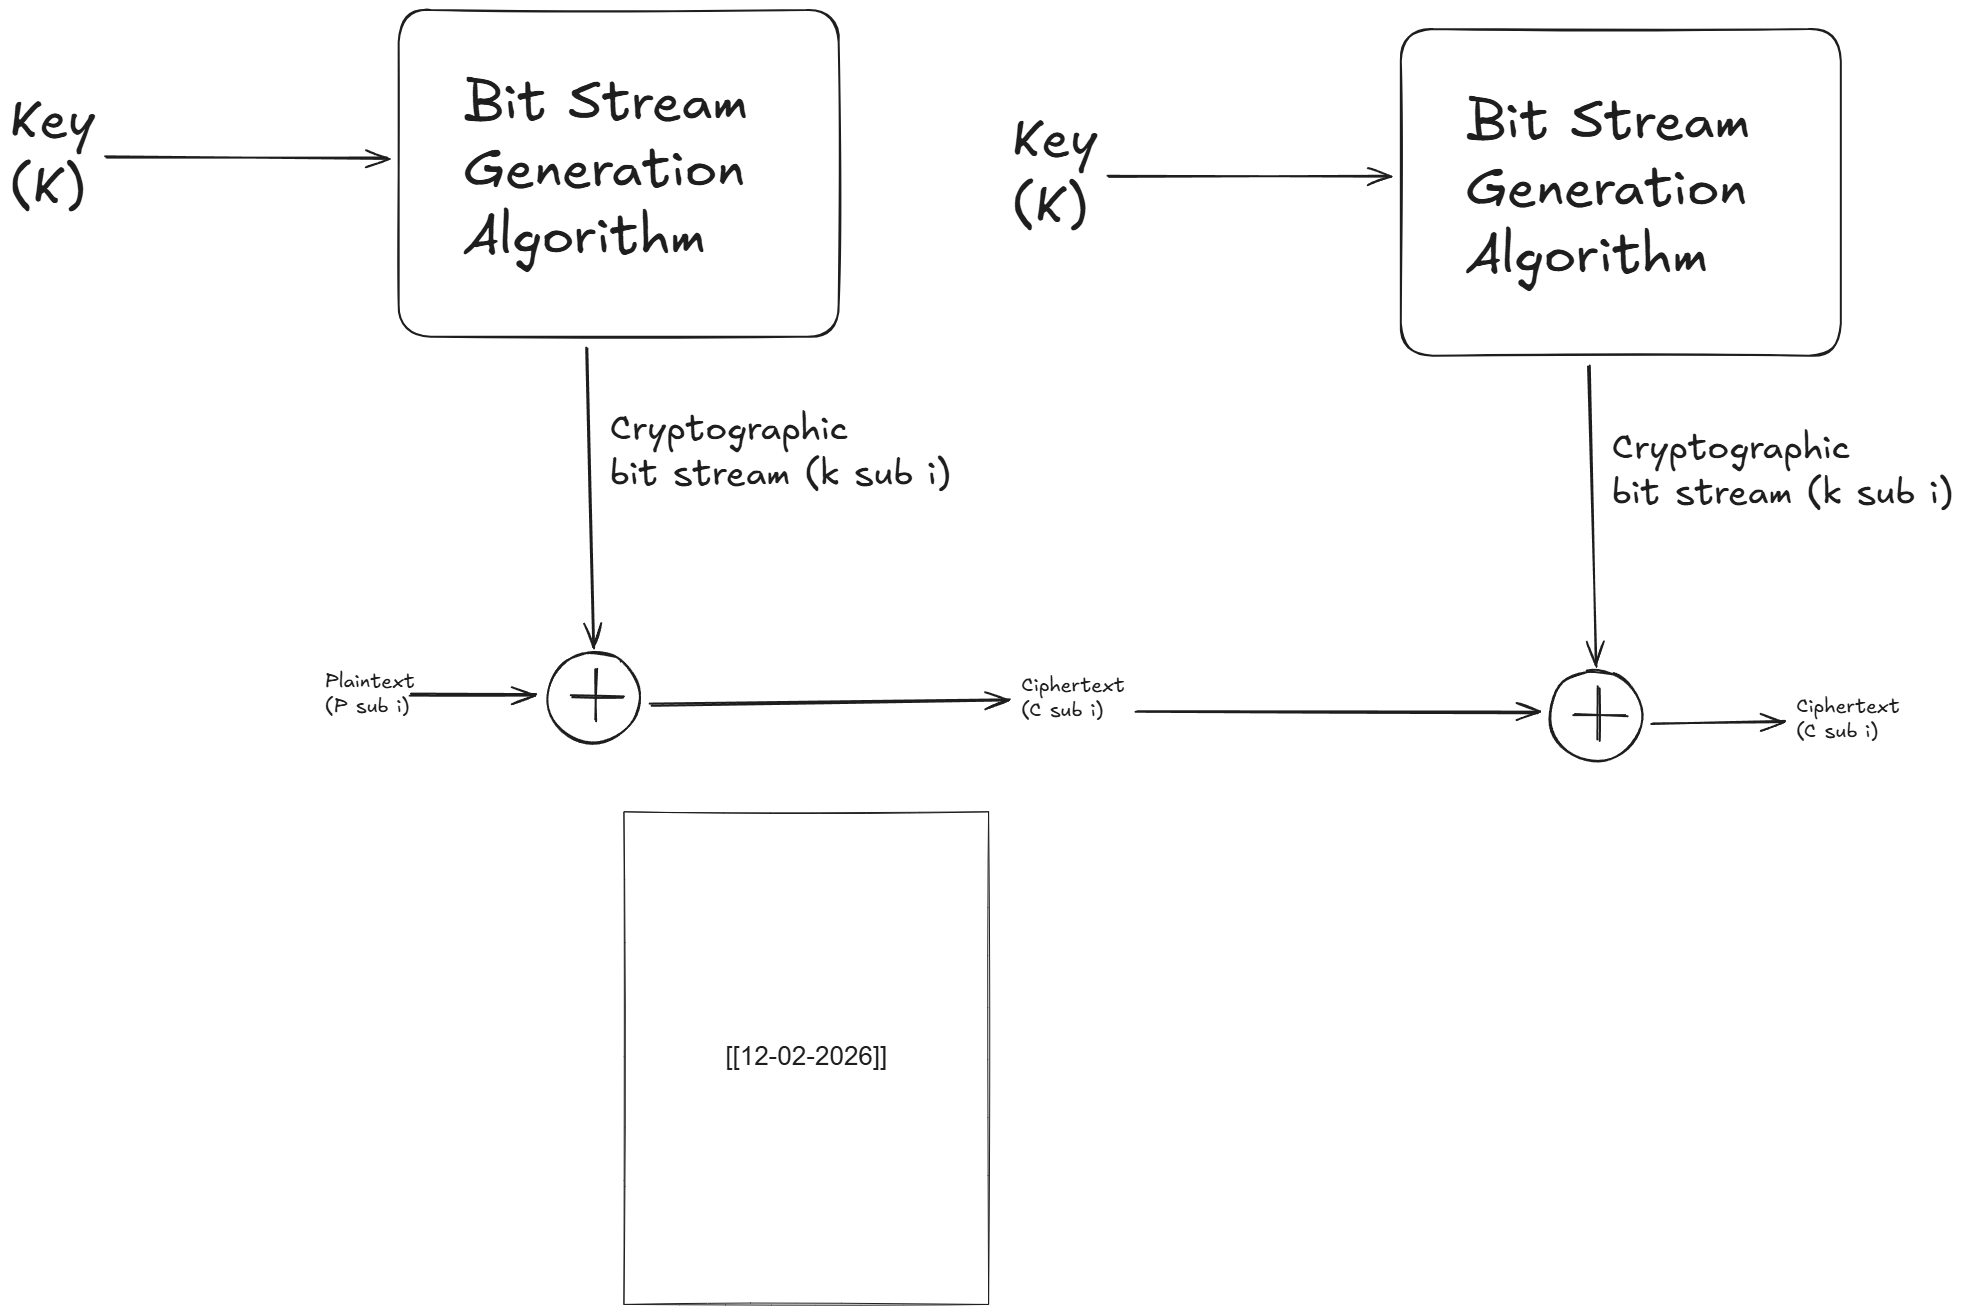
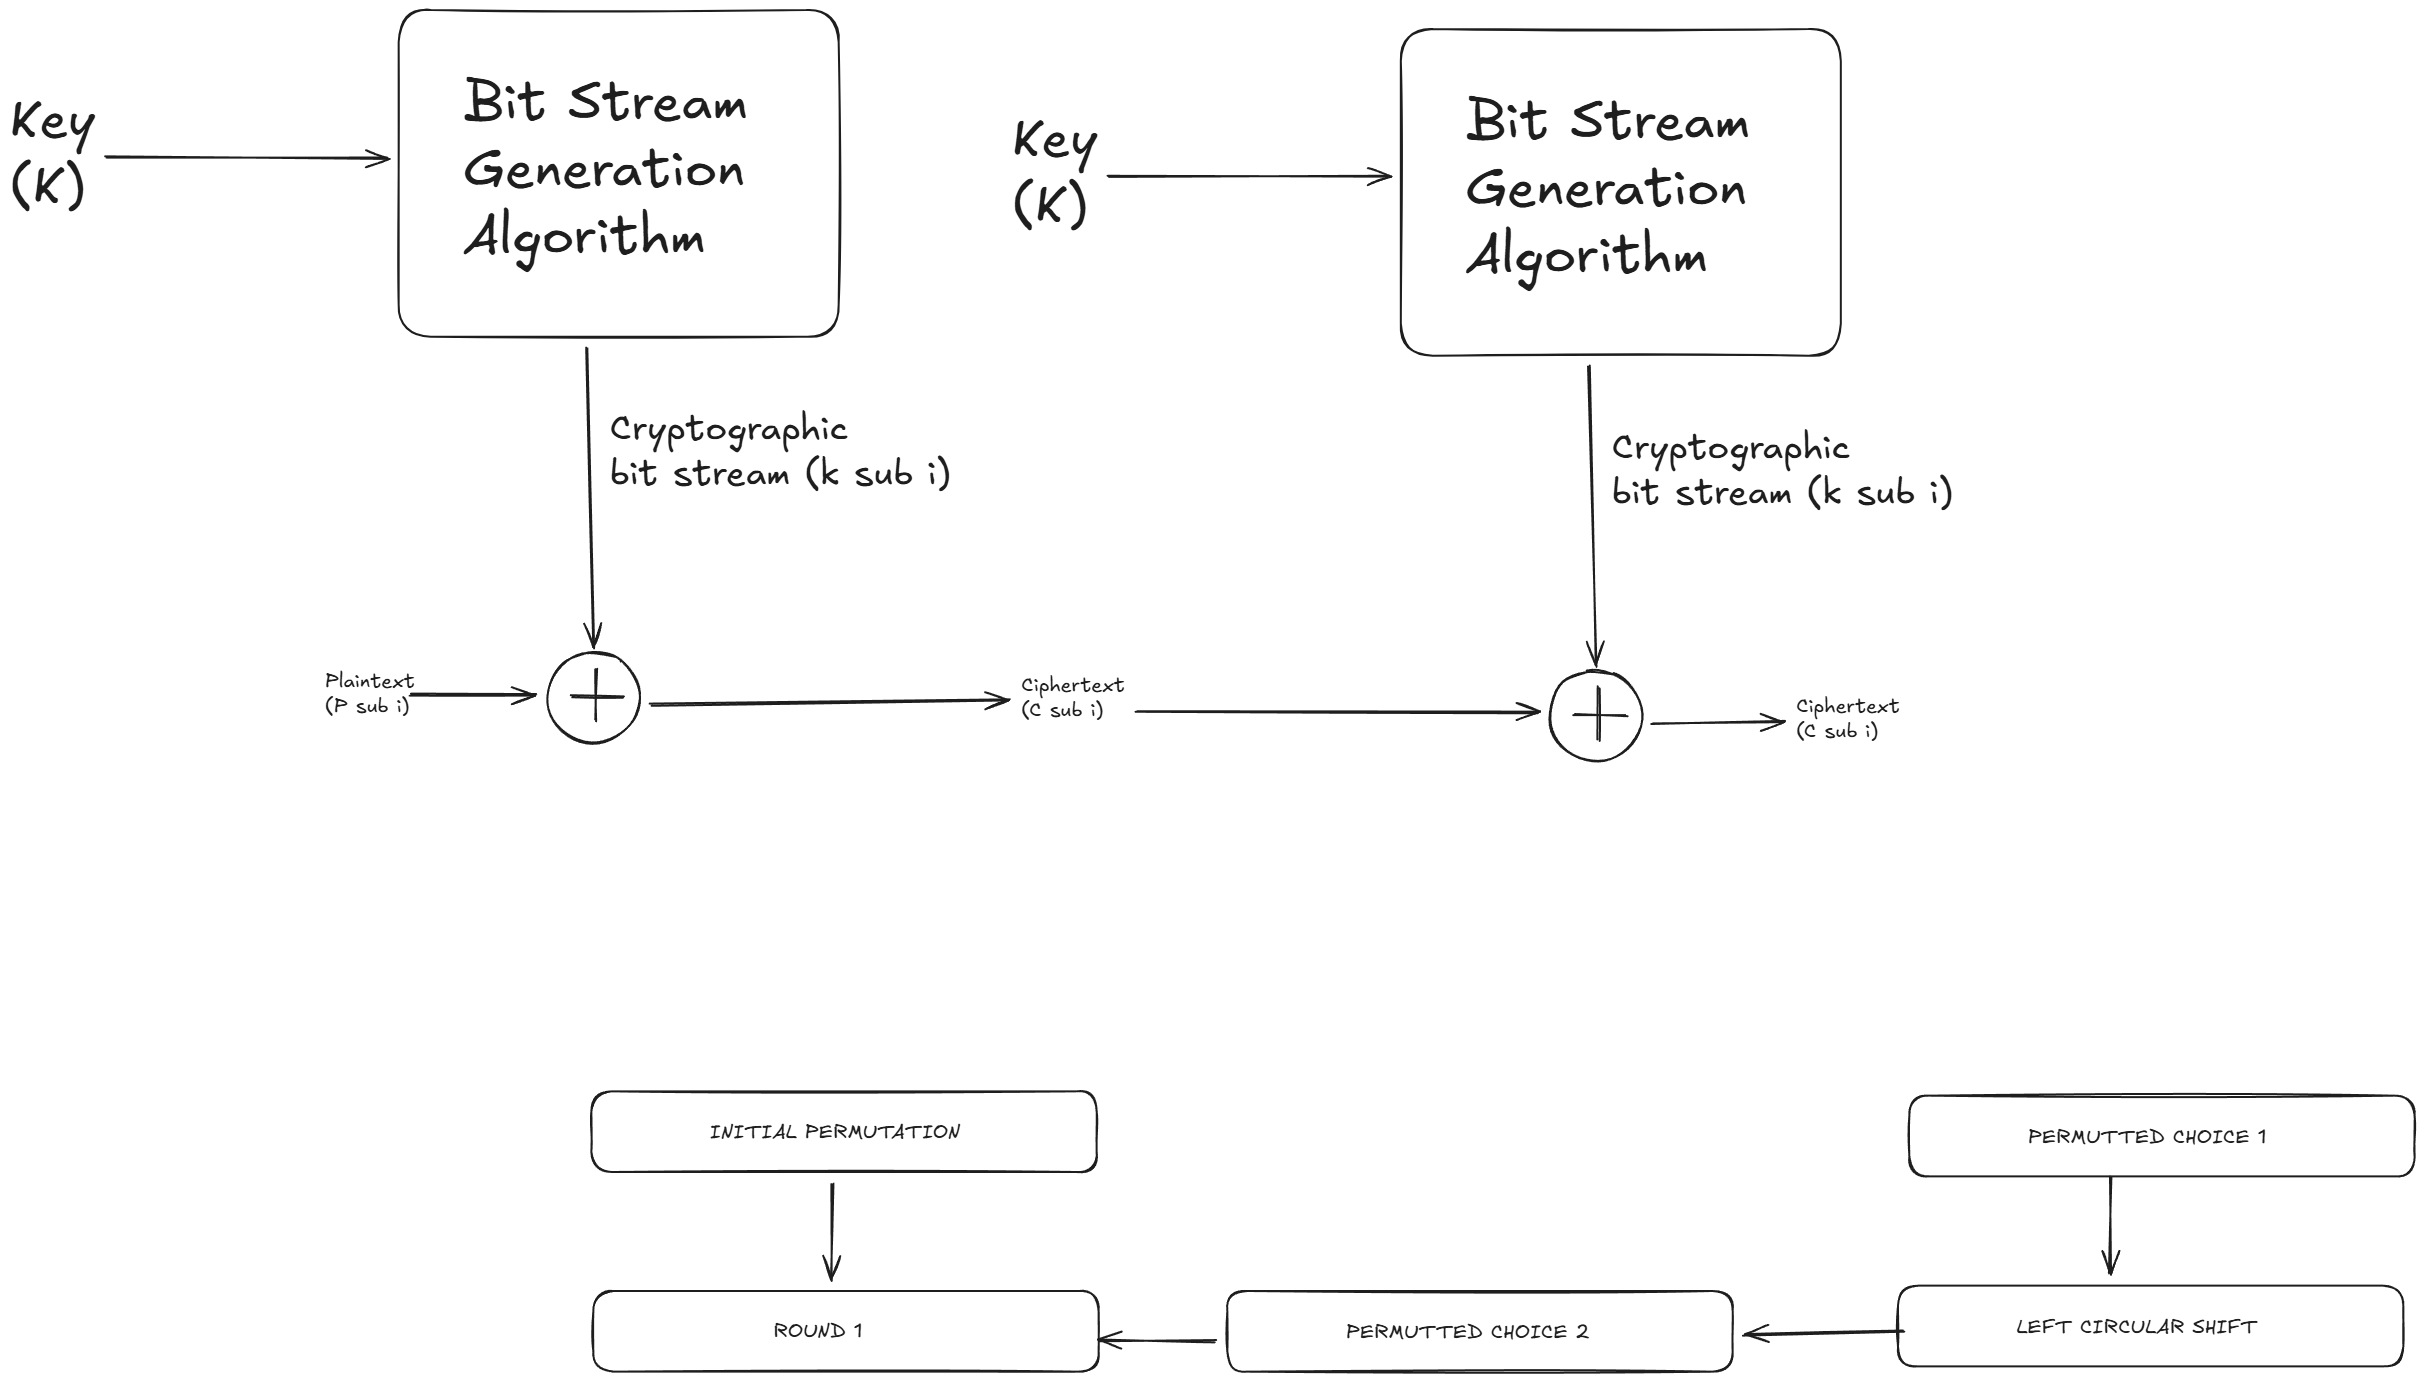
vault backup: 2026-02-12 13:10:57

diff --git a/Excalidraw/Drawing 2026-02-12 12.41.45.excalidraw.md b/Excalidraw/Drawing 2026-02-12 12.41.45.excalidraw.md
@@ -39,8 +39,15 @@ bit stream (k sub i) ^ZEicQP5s
 Ciphertext
 (C sub i) ^CyjYv8Kw
 
-## Element Links
-AUd1lm0N: [[12-02-2026]]
+INITIAL PERMUTATION ^Jjkd13cN
+
+PERMUTTED CHOICE 1 ^0nP7t641
+
+ROUND 1 ^I8bTZNOe
+
+PERMUTTED CHOICE 2 ^fEnshsFM
+
+LEFT CIRCULAR SHIFT ^Hy1z6Wej
 
 %%
 ## Drawing
@@ -135,14 +142,56 @@ BZlEllcCODksBUF8KloUP4VrLIuQi0jnxLFy1CteUgcNbIowWQAGhUk0lC0MY4W09lo3KQLHJmDxzE5y
 
[1 lines of base64/hex data omitted]
 
[2 lines of base64/hex data omitted]
 
[2 lines of base64/hex data omitted]
 
[2 lines of base64/hex data omitted]
 
[2 lines of base64/hex data omitted]
 
[2 lines of base64/hex data omitted]
+
[1 lines of base64/hex data omitted]
+
[1 lines of base64/hex data omitted]
+
[1 lines of base64/hex data omitted]
+
[1 lines of base64/hex data omitted]
+
[1 lines of base64/hex data omitted]
+
[1 lines of base64/hex data omitted]
+
[1 lines of base64/hex data omitted]
+
[1 lines of base64/hex data omitted]
+
[1 lines of base64/hex data omitted]
+
[1 lines of base64/hex data omitted]
+
[1 lines of base64/hex data omitted]
+
[1 lines of base64/hex data omitted]
+
[1 lines of base64/hex data omitted]
+
[1 lines of base64/hex data omitted]
+
[1 lines of base64/hex data omitted]
+
[1 lines of base64/hex data omitted]
+
[1 lines of base64/hex data omitted]
+
[1 lines of base64/hex data omitted]
+
[1 lines of base64/hex data omitted]
+
[1 lines of base64/hex data omitted]
+
+uRn4fgCkIAEY4DMAaET5i5AQkMUg5AHxNZrMcBoemBLouYEAA===
 ```
 %%
